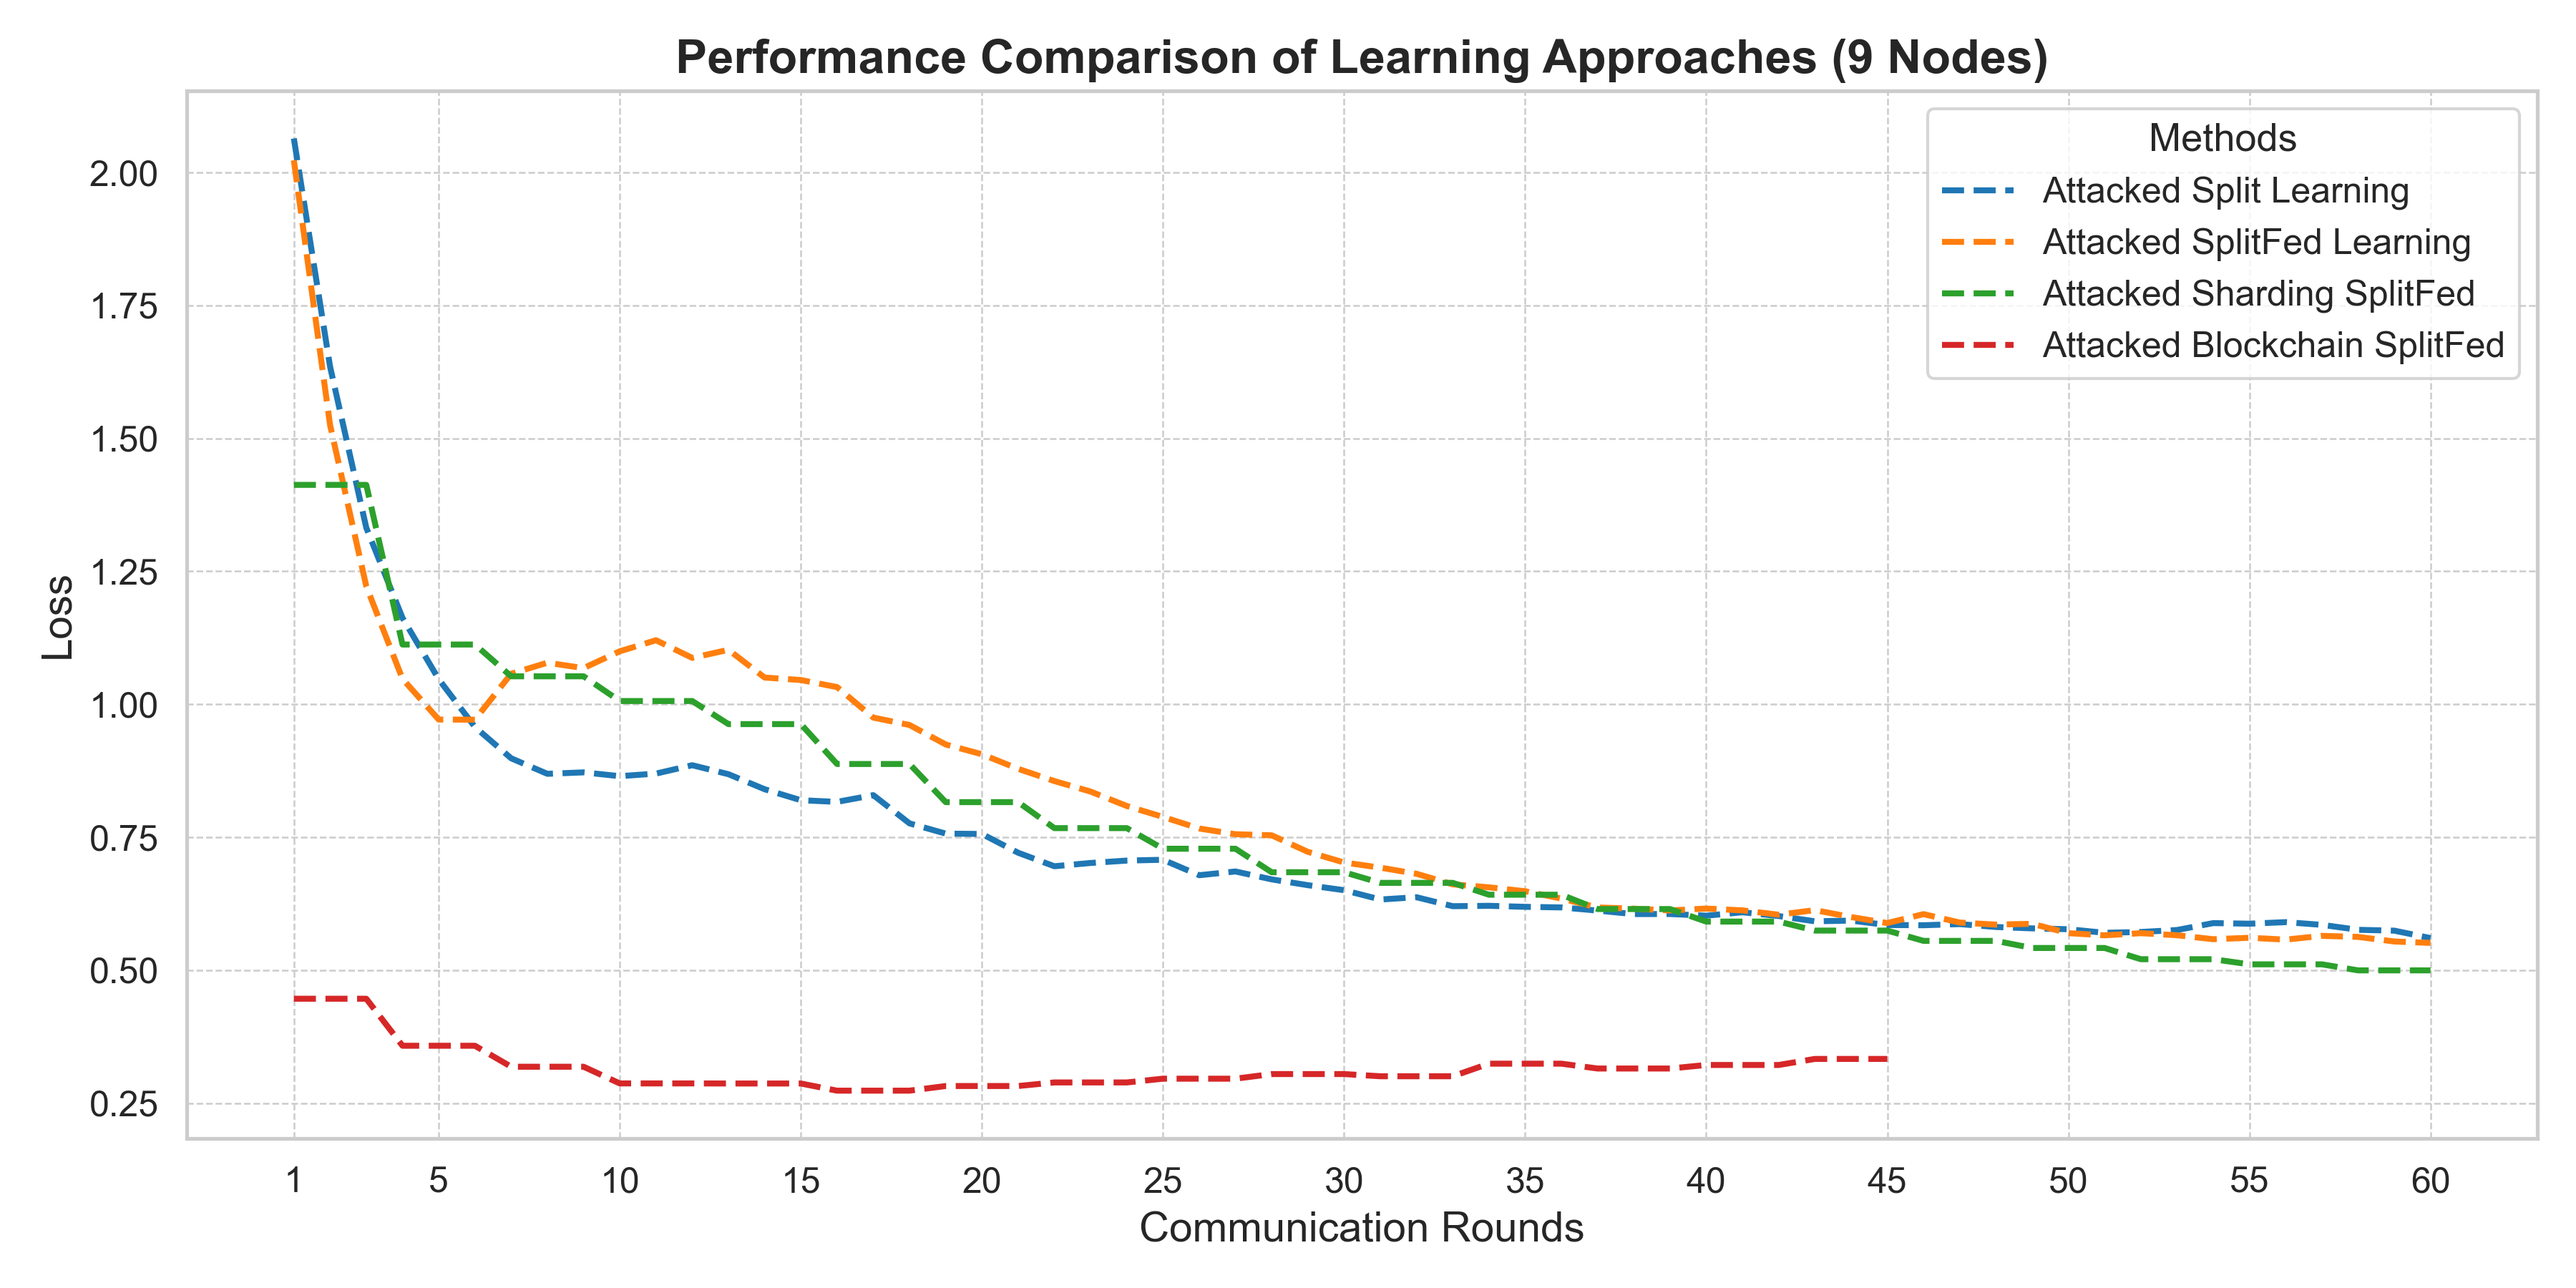
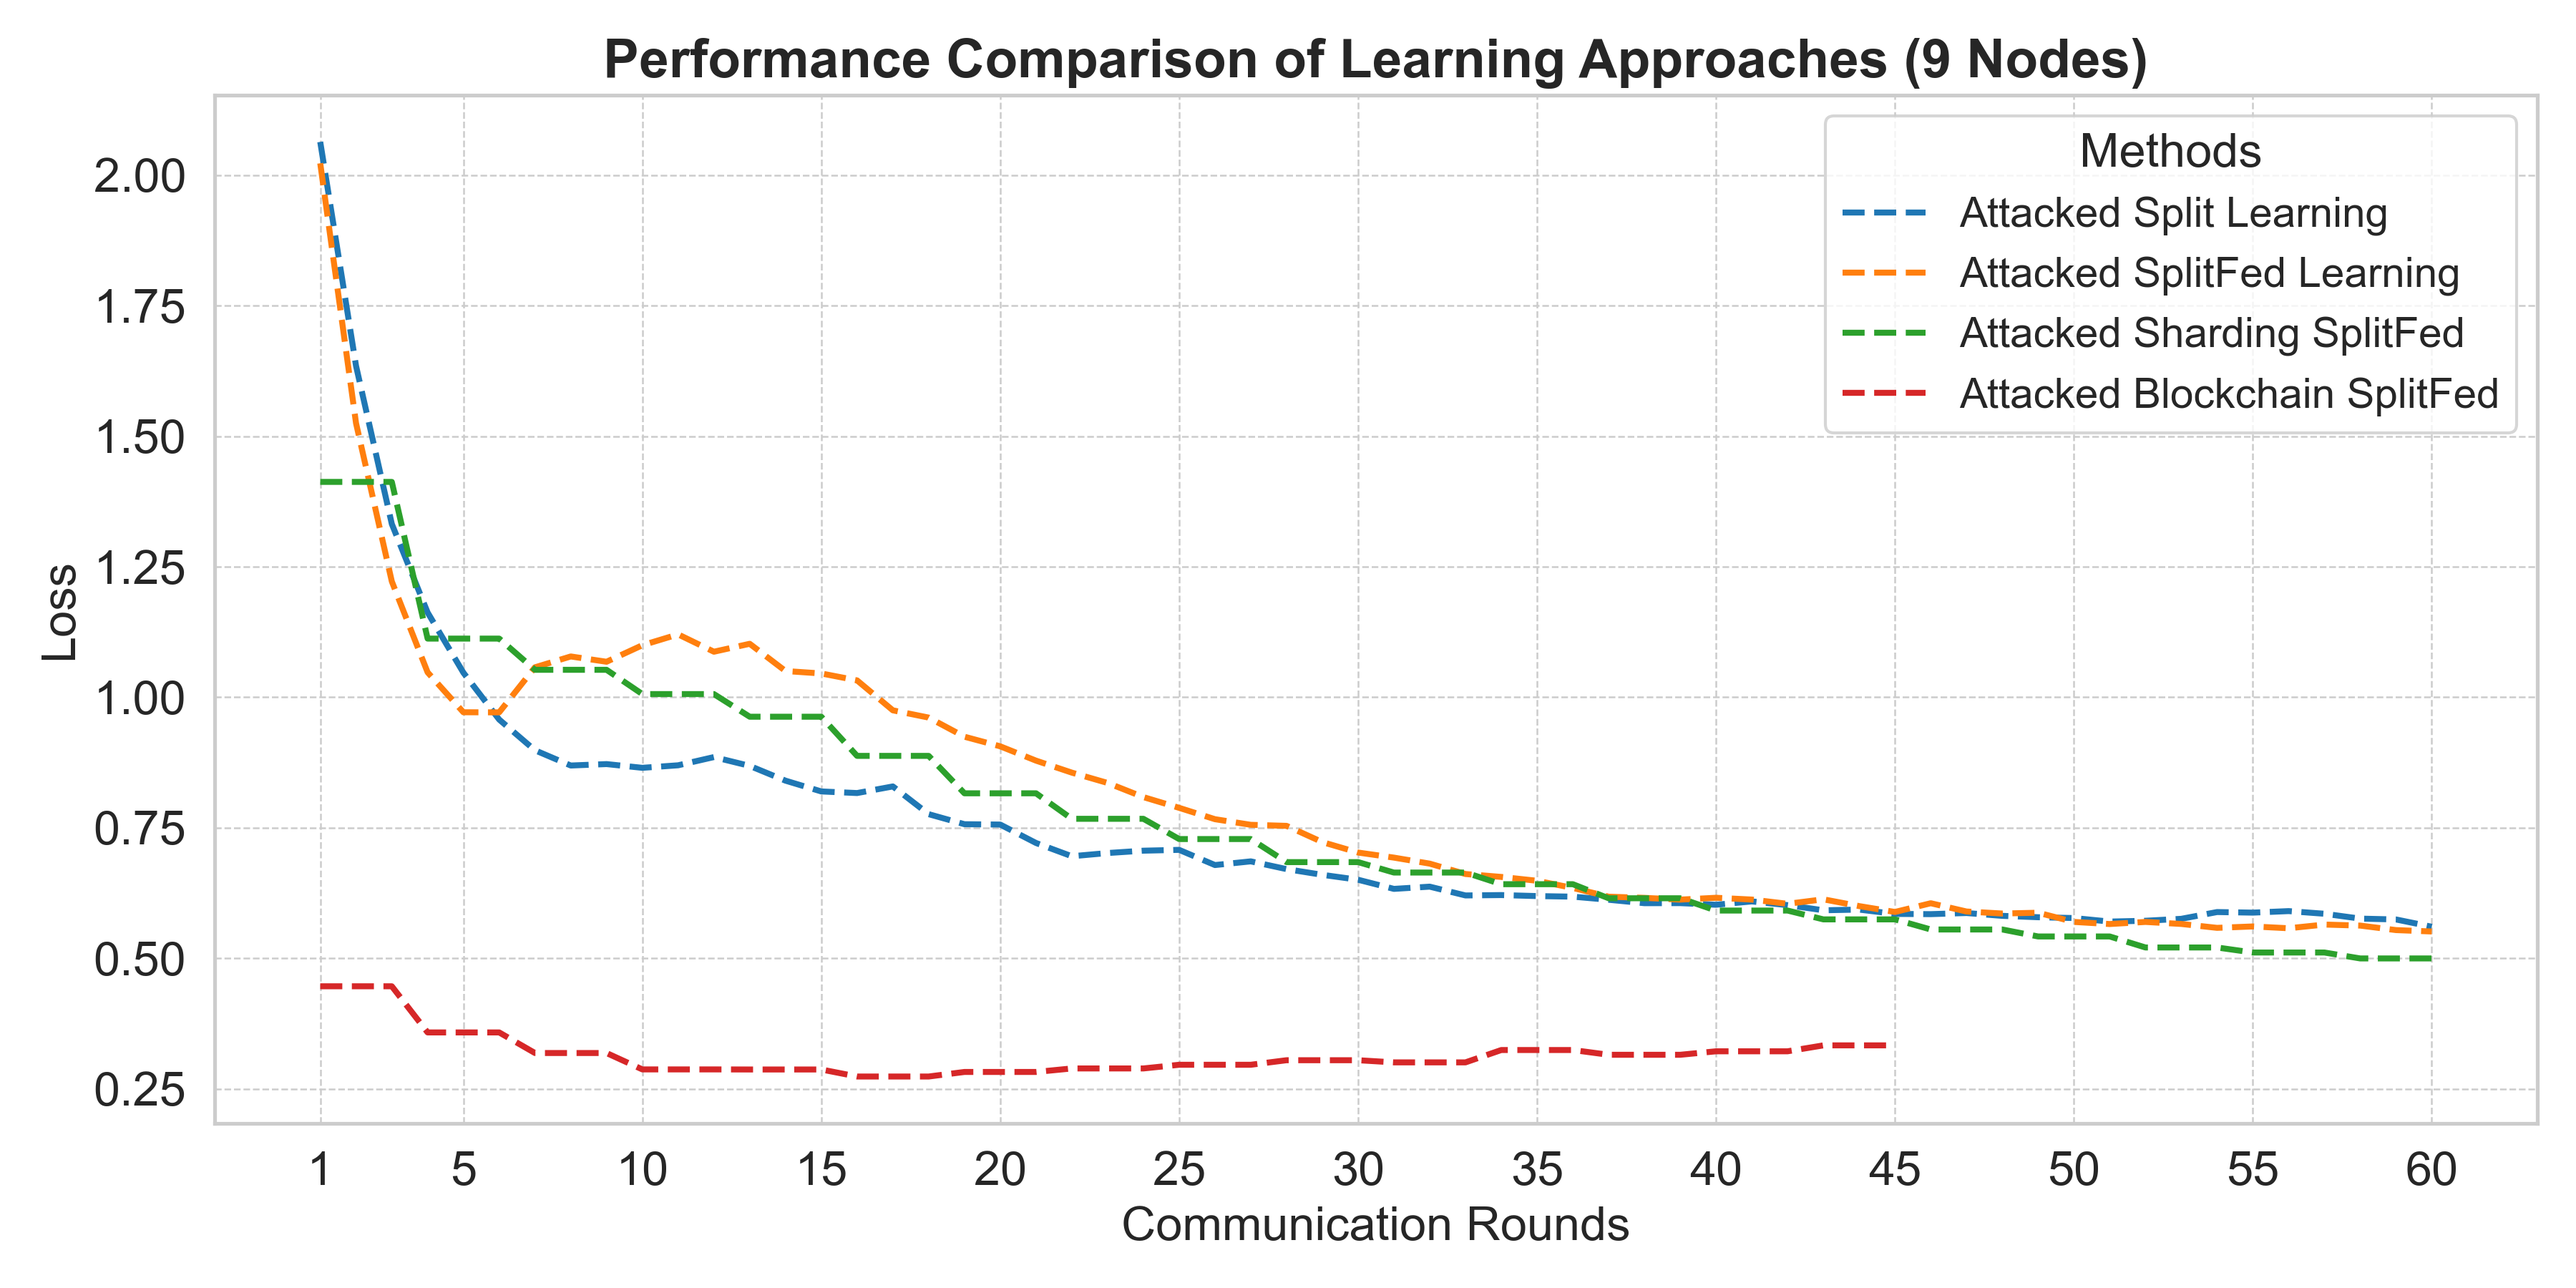
plotting readme completed.

diff --git a/plot.py b/plot.py
@@ -58,17 +58,17 @@ def plot_results(plot_function, num_nodes, image_name, x_max):
     plot_function()
     
     # Formatting
-    plt.title(f'Performance Comparison of Learning Approaches ({num_nodes} Nodes)', fontsize=16, fontweight='bold')
-    plt.xlabel('Communication Rounds', fontsize=14)
-    plt.ylabel('Loss', fontsize=14)
+    plt.title(f'Performance Comparison of Learning Approaches ({num_nodes} Nodes)', fontsize=18, fontweight='bold')
+    plt.xlabel('Communication Rounds', fontsize=16)
+    plt.ylabel('Loss', fontsize=16)
     
     # Ticks
-    plt.xticks([1] + list(range(5, x_max + 5, 5)), fontsize=12)
-    plt.yticks(fontsize=12)
+    plt.xticks([1] + list(range(5, x_max + 5, 5)), fontsize=16)
+    plt.yticks(fontsize=16)
     
     # Grid and Legend
     plt.grid(True, which='both', linestyle='--', linewidth=0.6)
-    plt.legend(title="Methods", title_fontsize=13, loc='best')
+    plt.legend(title="Methods", title_fontsize=16, loc='best', fontsize=14)
     
     # Adjust layout and save the figure
     plt.tight_layout()
@@ -81,17 +81,17 @@ def plot_transmission(num_nodes, image_name, x_max):
     plot_times()
     
     # Titles and Labels
-    plt.title(f'Transmission Costs of Learning Approaches ({num_nodes} Nodes)', fontsize=16, fontweight='bold')
-    plt.xlabel('Communication Rounds', fontsize=14)
-    plt.ylabel('Cumulative Time', fontsize=14)
+    plt.title(f'Transmission Costs of Learning Approaches ({num_nodes} Nodes)', fontsize=18, fontweight='bold')
+    plt.xlabel('Communication Rounds', fontsize=16)
+    plt.ylabel('Cumulative Time', fontsize=16)
     
     # Ticks
-    plt.xticks([1] + list(range(5, x_max + 5, 5)), fontsize=12)
-    plt.yticks(fontsize=12)
+    plt.xticks([1] + list(range(5, x_max + 5, 5)), fontsize=16)
+    plt.yticks(fontsize=14)
     
     # Grid and Legend
     plt.grid(True, which='both', linestyle='--', linewidth=0.6)
-    plt.legend(title="Methods", title_fontsize=13, loc='upper left')
+    plt.legend(title="Methods", title_fontsize=16, loc='upper left', fontsize=14)
     
     # Adjust layout and save the figure
     plt.tight_layout()

diff --git a/README.md b/README.md
@@ -1,0 +1,30 @@
+# Plotting
+
+This branch contains the code for plotting the results of Split Learning (SL), SplitFed Learning (SFL), Sharded SplitFed Learning (SSFL), and Blockchain-based SplitFed Learning (BSFL). The data for these results is gathered from other branches of this repository, which are responsible for executing the respective experiments.
+
+To regenerate the results, simply run the following command:
+```
+python3 plot.py
+```
+This will regenrate the results in the `figures` folder.
+
+# Results
+Through extensive evaluations of all Split Learning variations, we demonstrate that SSFL and BSFL outperform previous approaches across multiple categories, including security, scalability, and performance.
+
+![all_9](./figures/all_9.png) ![all_36](./figures/all_9.png)
+
+## Performance
+We assess the performance of all the mentioned approaches by running each framework under different settings and conditions. SSFL and BSFL consistently outperform SL and SFL in terms of validation loss, as shown in the figures above.
+
+
+## Security
+We evaluate the security of each framework by performing data-poisoning attacks with various proportions. As evidenced by the figures above, BSFL demonstrates resilience against these threats, with its loss remaining consistent in both normal and attacked scenarios. This is not the case for other approaches, as they lack mechanisms to prevent such attacks on the collaborative learning framework.
+
+## Scalability
+Our results show significant improvements in terms of latency and scalability. These results are derived from experiments that measured the latency of each approach and compared them. The following figure illustrates this observation:
+
+![times](./figures/times.png)
+
+For further analysis of our results, please refer to our paper.
+
+
